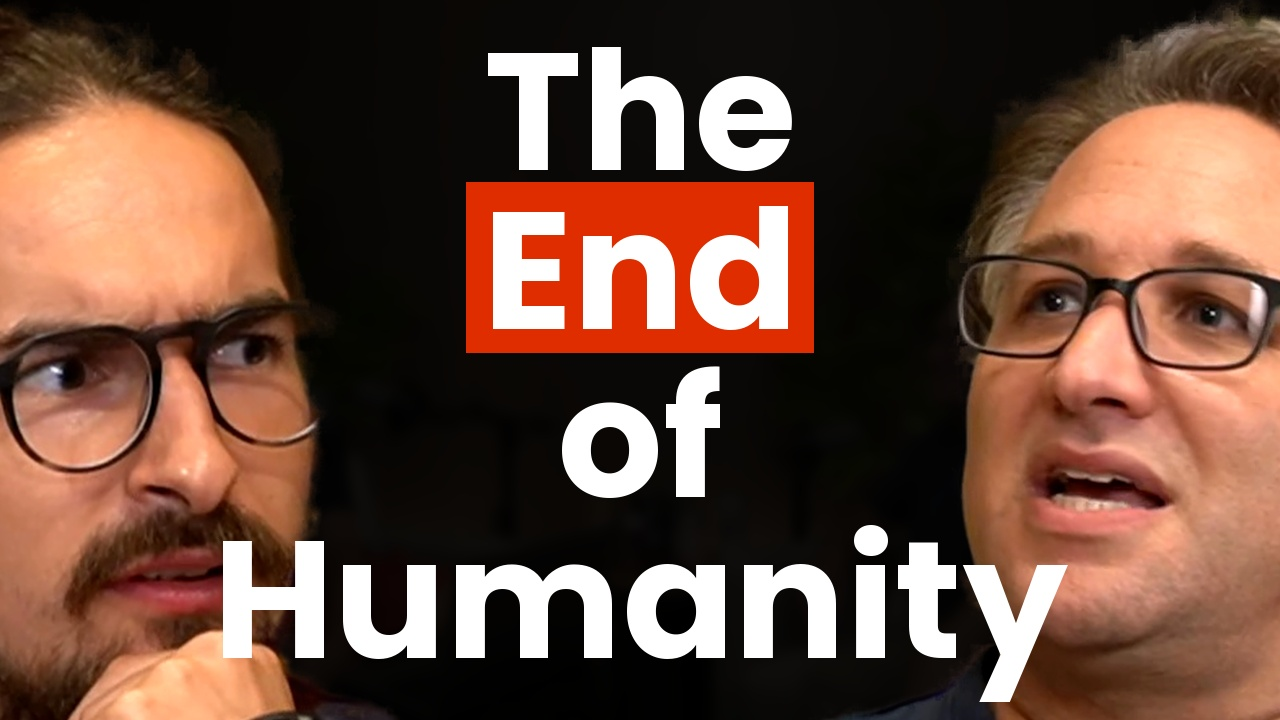
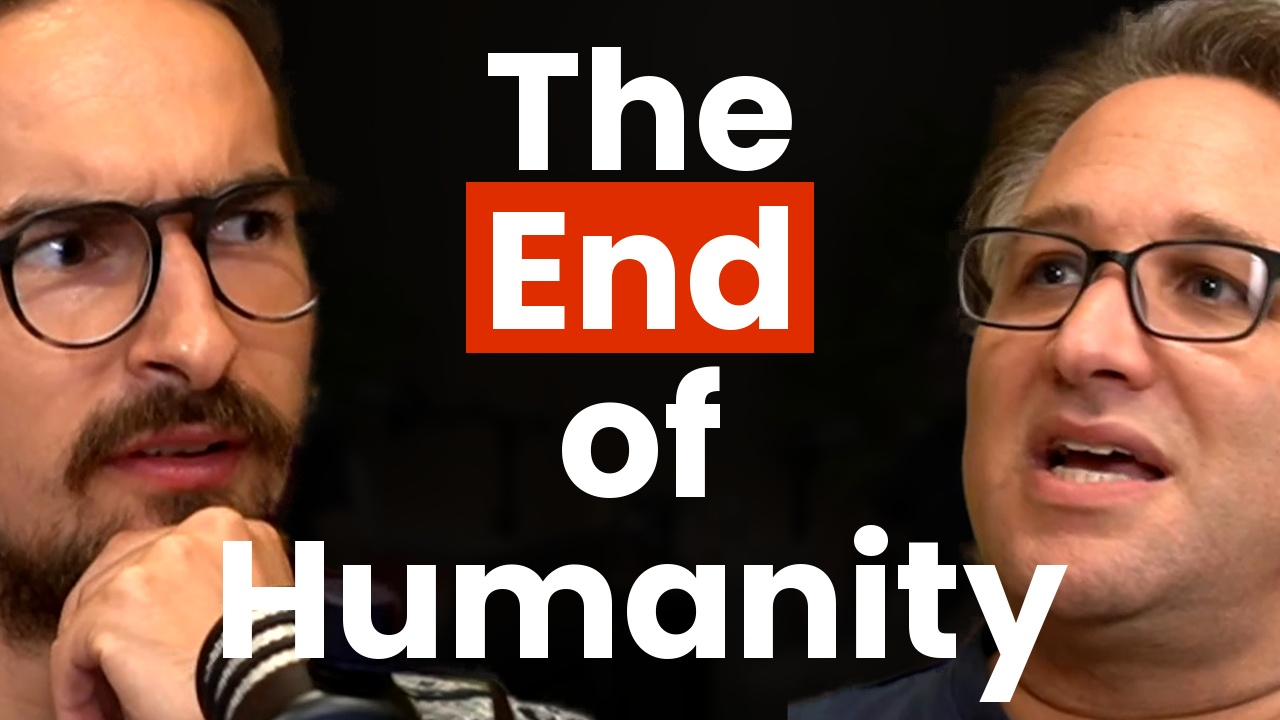
Drei Aaronson-Thumbnails pixelgleich gesetzt, Kinnlinie buendig
Sein Grund: A/B-Tests messen nur dann die Copy, wenn alles andere gleich
ist. Alle drei tragen jetzt dieselben Freisteller, dasselbe box_h - die
Werte aus OpenAI Insider, die er als optimal bezeichnet hat - und dieselbe
Kinnlinie.

Dazu ein neuer Anker: kinn_y statt scheitel_y. Scheitel zu Kinn ist bei
zwei Menschen verschieden, mit beiden Scheiteln auf y 3 lag sein Kinn bei
716 und Aaronsons bei 641, also 75 px auseinander. Als Messpunkt dient die
Unterkante des YuNet-Rahmens.

Nach dem ersten Lauf blieben 20 px Versatz, weil der Detektor die Montage
anders misst als den Freisteller. Einmal nachgeregelt, jetzt 2 px.

Beide zusammen hochgeschoben: Kinnlinie bei 592 und 612 statt vorher 716 und
641. Nachgemessen sind alle drei identisch, Pupillenabstand 160,3 und 167,8.

diff --git a/video/thumbnail_bau.py b/video/thumbnail_bau.py
@@ -73,7 +73,7 @@ def kopfmass(png):
     return scheitel, int(schulter), mitte, flaeche
 
 
-def gesicht_messen(png):
+def gesicht_messen(png, mit_unterkante=False):
     """Augenmitte und Gesichtshoehe eines Freistellers messen (YuNet).
 
     Maskenmasse wie Scheitel-zu-Schulter taugen nicht zum Skalieren: legt
@@ -97,6 +97,9 @@ def gesicht_messen(png):
     r = max(res, key=lambda r: r[3])          # groesster Rahmen
     augen_x = (float(r[4]) + float(r[6])) / 2
     augen_y = (float(r[5]) + float(r[7])) / 2
+    if mit_unterkante:
+        # Unterkante des Gesichtsrahmens, als Kinnlinie benutzbar
+        return augen_x, augen_y, float(r[3]), float(r[1]) + float(r[3])
     return augen_x, augen_y, float(r[3])
 
 
@@ -124,9 +127,15 @@ def kopf_setzen(leinwand, png, ziel, kontrast=1.14, helligkeit=1.06,
             Image.FLIP_LEFT_RIGHT)
         png = png.rsplit('.', 1)[0] + '__gespiegelt.png'
         gespiegelt.save(png)
-    ax, ay, bh = gesicht_messen(png)
+    ax, ay, bh, by = gesicht_messen(png, mit_unterkante=True)
     k_vor = ziel['box_h'] / bh
-    if 'scheitel_y' in ziel:
+    if 'kinn_y' in ziel:
+        # Kinnlinie als Anker. Scheitel-zu-Kinn ist bei zwei Menschen
+        # verschieden; wer beide oben buendig setzt, bekommt unten
+        # verschiedene Kinnhoehen. Fuer A/B-Tests muessen die Elemente
+        # gleich sitzen, also wird unten gebuendigt.
+        ziel = dict(ziel, augen_y=ziel['kinn_y'] - (by - ay) * k_vor)
+    elif 'scheitel_y' in ziel:
         al = np.asarray(Image.open(png))[:, :, 3] > 40
         oben = int(np.nonzero(al.sum(1) > 6)[0][0])
         ziel = dict(ziel, augen_y=ziel['scheitel_y'] + (ay - oben) * k_vor)

diff --git a/video/thumbnails.md b/video/thumbnails.md
@@ -386,6 +386,34 @@ ich habe zusätzlich eine zweite Copy gebaut, die er nicht wollte, und das hat
 ihn zu Recht geärgert. Eine Bestellung, eine Lieferung. Was ich zusätzlich
 für sinnvoll halte, wird gefragt, nicht danebengelegt.
 
+## Varianten einer Folge müssen bis aufs Pixel gleich gesetzt sein
+
+Sein Grund am 21.10.: *„ich möchte, dass die Kopfgrößen überall gleich sind
+… weil das wichtig ist für A/B-Tests, dass Elemente wirklich gleich sind."*
+
+**Wenn mehrere Thumbnails zu derselben Folge gegeneinander getestet werden,
+darf sich nur das ändern, was getestet wird.** Gleiche Freisteller, gleiches
+`box_h`, gleiche Kinnlinie. Sonst misst der Test die Kopfgröße mit und nicht
+die Copy.
+
+Festgehalten für die Aaronson-Folge: `y_3605` mit `box_h` 595 und
+`a_2504_ohne_hand` mit `box_h` 524, Kinnlinie links 592, rechts 612.
+
+## Kinnlinie bündigen, nicht Scheitel
+
+**Scheitel-zu-Kinn ist bei zwei Menschen verschieden.** Mit beiden Scheiteln
+auf y = 3 lag sein Kinn bei **716**, Aaronsons bei **641** — 75 px
+auseinander, und genau das hat er gesehen: *„mein Kinn sollte auf der Höhe
+von Scott sein."*
+
+`kopf_setzen()` nimmt dafür `kinn_y` statt `scheitel_y`. Als Kinnlinie dient
+die **Unterkante des YuNet-Gesichtsrahmens** — kein echtes Kinn, aber bei
+beiden derselbe Messpunkt, und darauf kommt es an.
+
+**Nachregeln am fertigen Bild.** Der Detektor misst den Freisteller anders
+als die Montage; nach dem ersten Lauf blieben 20 px Rest. Einmal messen,
+`kinn_y` um die Differenz korrigieren, neu rendern — danach 2 px.
+
 ## Fläche, die kein Gesicht zeigt, zahlt nicht ein
 
 Sein Satz am 21.10.: *„je mehr wir von Kyles Oberkörper zeigen, desto weniger

diff --git a/lernen/thumbnails.md b/lernen/thumbnails.md
@@ -5,6 +5,30 @@ oben. Nur nachgemessene Befunde mit Zahl oder wörtlichem Zitat.
 
 ---
 
+## 21.10.2026 — abends, fünfte Runde
+
+- **Varianten derselben Folge müssen bis aufs Pixel gleich gesetzt sein.**
+  Sein Grund, wörtlich: *„weil das wichtig ist für A/B-Tests, dass Elemente
+  wirklich gleich sind."* Wenn mehrere Fassungen gegeneinander laufen, darf
+  sich nur ändern, was getestet wird. Gilt für jedes Medium, in dem wir
+  Varianten vorlegen — Titel, Beschreibungen, Hooks.
+  → betrifft: alle
+
+- **Zwei Köpfe bündigt man am Kinn, nicht am Scheitel.** Scheitel-zu-Kinn ist
+  bei zwei Menschen verschieden: mit beiden Scheiteln auf y = 3 lag ein Kinn
+  bei **716**, das andere bei **641** — 75 px auseinander. Als Messpunkt
+  taugt die Unterkante des YuNet-Gesichtsrahmens; kein echtes Kinn, aber bei
+  beiden derselbe Punkt.
+  → betrifft: content-*, cinematic
+
+- **Platzierungswerte am fertigen Bild nachregeln, nicht am Einzelteil.** Der
+  Detektor misst den Freisteller anders als die Montage — nach dem ersten
+  Lauf blieben 20 px Versatz. Einmal messen, korrigieren, neu rendern: dann
+  2 px.
+  → betrifft: content-*, cinematic
+
+---
+
 ## 21.10.2026 — abends, vierte Runde
 
 - **Seine Zielspanne für Kopfgrößen ist 145–167 Pupillenabstand, nicht
